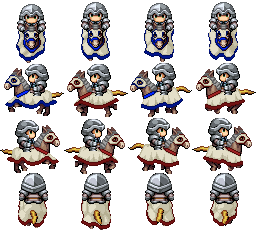
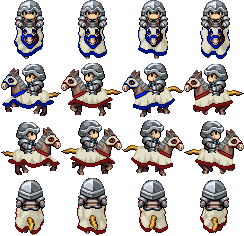
Fixed water shadow thing, and added in proper horse riding explorers (for the blue team)

diff --git a/kingslayer/src/game/model/game/model/worldObject/entity/drawStrat/DirectionAnimationDrawStrat.java b/kingslayer/src/game/model/game/model/worldObject/entity/drawStrat/DirectionAnimationDrawStrat.java
@@ -84,7 +84,7 @@ public abstract class DirectionAnimationDrawStrat extends DrawStrat {
         // Update image being used
         if (entity.<Velocity>get(VELOCITY).getMagnitude() != 0) {
             drawData.count++;
-            if (drawData.count > 1) {
+            if (drawData.count > 11) {
                 drawData.count = 0;
                 drawData.imageNum = (drawData.imageNum + 1) % 3;
             }
@@ -220,19 +220,19 @@ public abstract class DirectionAnimationDrawStrat extends DrawStrat {
             // Update image being used
             if (entity.<Velocity>get(VELOCITY).getMagnitude() != 0) {
                 drawData.count++;
-                if (drawData.count > 1) {
+                if (drawData.count > 8) {
                     drawData.count = 0;
-                    drawData.imageNum = (drawData.imageNum + 1) % 3;
+                    drawData.imageNum = (drawData.imageNum + 1) % 4;
                 }
             } else {
-                drawData.imageNum = 2;
+                drawData.imageNum = 1;
             }
 
             // TODO make new image map for 4 part animation
             Point p = imageMap.get(drawData.imageNum + "" + drawData.direction);
             gc.drawImage(this.getImage(entity),
-                toDrawCoords(p.x),
-                toDrawCoords(p.y),
+                toDrawCoords(p.x * getWidth()),
+                toDrawCoords(p.y * getHeight()),
                 toDrawCoords(getWidth()),
                 toDrawCoords(getHeight()),
                 toDrawCoords(entity.getX() - entity.getHitbox().getWidth() / 2),
@@ -241,12 +241,14 @@ public abstract class DirectionAnimationDrawStrat extends DrawStrat {
                 toDrawCoords(entity.getHitbox().getHeight()) * getHeight());
         }
 
+        @Override
         double getWidth() {
-            return 2;
+            return 1.90625;
         } // TODO
 
+        @Override
         double getHeight() {
-            return 1.75;
+            return 1.84375;
         } // TODO
     }
 
